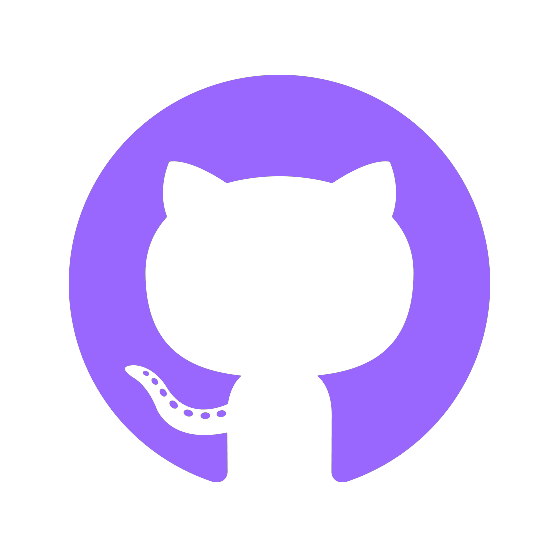
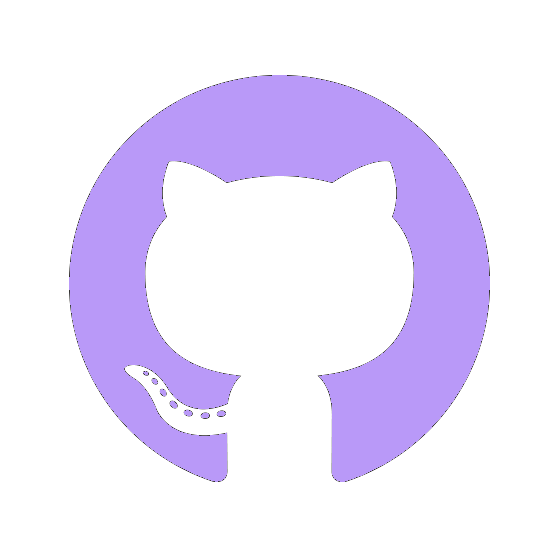
Finished contact session, checked all links and finished CSS

Changed region(s): [[0.1214, 0.1214, 0.8804, 0.8804]]

diff --git a/index.html b/index.html
@@ -110,30 +110,30 @@
     <div class="Contact">
         <h2 class="sectionHeading">Contact</h2>
             <div class="contactLinks">
-                <a href="https://jwnicholas99.github.io/">
+                <a href="https://www.dropbox.com/s/pogm979siezqhge/Resume_Jing%20Wei%20Nicholas%20Lim_v5.0.docx?dl=0">
                     <section class="contactElement" id="contactResume">
-                        <img src="images/HTMLLogo.png">
+                        <img src="images/Resume.png">
                         <div class="line" id="line4"></div>
                         <p class="contactWords">Resume</p>
                     </section>
                 </a>
-                <a href="https://jwnicholas99.wixsite.com/foodsearch">
+                <a href="https://www.linkedin.com/in/jingweinicholaslim/">
                     <section class="contactElement" id="contactLinkedIn">
-                        <img src="images/FoodSearchLogo.png">
+                        <img src="images/LinkedInColored.png" id="LinkedInColored">
                         <div class="line" id="line5"></div>
                         <p class="contactWords">LinkedIn</p>
                     </section>
                 </a>
-                <a href="https://github.com/jwnicholas99/TaxiApp">
+                <a href="https://github.com/jwnicholas99">
                     <section class="contactElement" id="contactGitHub">
-                        <i class="fa fa-github fa-fw"></i>
+                        <img src="images/GitHubColored.png" id="GitHubColored">
                         <div class="line" id="line6"></div>
                         <p class="contactWords">GitHub</p>
                     </section>
                 </a>
-                <a href="https://github.com/jwnicholas99/TaxiApp">
+                <a href="mailto:jwnicholas99@gmail.com">
                     <section class="contactElement" id="contactEmail">
-                        <img src="images/TaxiDriverApp.png">
+                        <img src="images/Email.png">
                         <div class="line" id="line7"></div>
                         <p class="contactWords">Email</p>
                     </section>

diff --git a/main.css b/main.css
@@ -319,7 +319,7 @@ span {
 .Contact {
     text-align: center;
     margin-top: 2.5%;
-    margin-bottom: 15%;
+    margin-bottom: 14%;
 }
 
 .contactLinks {
@@ -340,29 +340,8 @@ span {
     justify-content: center;
 }
 
-.contactWords {
-    font-size: 17px;
-    font-weight: bold;
-}
-
-#contactResume p{
-    color: #43EEE9;
-}
-
-#contactLinkedIn p{
-    color: #FF8484;
-}
-
-#contactGitHub p{
-    color: #9966FE;
-}
-
-#contactEmail p{
-    color: #EE435F;
-}
-
 #contactResume {
-    border: 6px solid #43EEE9;
+    border: 6px solid #81E2FF;
 }
 
 #contactLinkedIn {
@@ -370,24 +349,65 @@ span {
 }
 
 #contactGitHub {
-     border: 6px solid #9966FE;
+     border: 6px solid #B999F8;
  }
 
 #contactEmail {
-    border: 6px solid #EE435F;
+    border: 6px solid #87F2C7;
 }
 
 #line4{
-    border-bottom: 2px solid #43EEE9;
+    border-bottom: 2px solid #81E2FF;
+    margin-top: 17px;
 }
 #line5{
     border-bottom: 2px solid #FF8484;
+    margin-top: 26px;
 }
 
 #line6{
-    border-bottom: 2px solid #9966FE;
+    border-bottom: 2px solid #B999F8;
+    margin-top: 7px;
 }
 
 #line7{
-    border-bottom: 2px solid #EE435F;
+    border-bottom: 2px solid #87F2C7;
+    margin-top: 27px;
+}
+
+#LinkedInColored {
+    width: 65px;
+    height: 65px;
+    margin-top: 10px;
+}
+
+#GitHubColored {
+    width: 100px;
+    height: 100px;
+    margin-top: -12px;
+}
+
+.contactWords {
+    font-size: 17px;
+    font-weight: bold;
+}
+
+#contactResume p{
+    color: #81E2FF;
+    margin-top: 15px;
+}
+
+#contactLinkedIn p{
+    color: #FF8484;
+    margin-top: 20px;
+}
+
+#contactGitHub p{
+    color: #B999F8;
+    margin-top: 15px;
+}
+
+#contactEmail p{
+    color: #87F2C7;
+    margin-top: 15px;
 }
